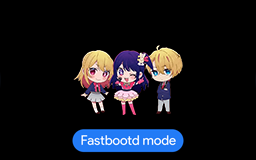
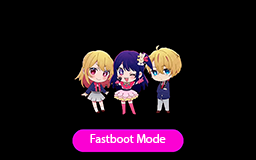
change recovery ui color

diff --git a/recovery_ui/screen_ui.cpp b/recovery_ui/screen_ui.cpp
@@ -49,8 +49,8 @@
 #include "recovery_ui/ui.h"
 
 enum DirectRenderManager {
-    DRM_INNER,
-    DRM_OUTER,
+  DRM_INNER,
+  DRM_OUTER,
 };
 
 // Return the current time as a double (including fractions of a second).
@@ -67,16 +67,15 @@ int Menu::selection() const {
   return selection_;
 }
 
-TextMenu::TextMenu(bool wrappable, size_t max_length,
-                   const std::vector<std::string>& headers, const std::vector<std::string>& items,
-                   size_t initial_selection, int char_height, const DrawInterface& draw_funcs)
+TextMenu::TextMenu(bool wrappable, size_t max_length, const std::vector<std::string>& headers,
+                   const std::vector<std::string>& items, size_t initial_selection, int char_height,
+                   const DrawInterface& draw_funcs)
     : Menu(initial_selection, draw_funcs),
       wrappable_(wrappable),
       calibrated_height_(false),
       max_item_length_(max_length),
       text_headers_(headers),
       char_height_(char_height) {
-
   size_t items_count = items.size();
   for (size_t i = 0; i < items_count; ++i) {
     text_items_.emplace_back(items[i].substr(0, max_item_length_));
@@ -122,7 +121,7 @@ int TextMenu::Select(int sel) {
   CHECK_LE(ItemsCount(), static_cast<size_t>(std::numeric_limits<int>::max()));
   int count = ItemsCount();
 
-  int min = IsMain() ? 0 : -1; // -1 is back arrow
+  int min = IsMain() ? 0 : -1;  // -1 is back arrow
 
   if (sel < min) {
     selection_ = wrappable() ? count - 1 : min;
@@ -185,7 +184,7 @@ int TextMenu::DrawItems(int x, int y, int screen_width, bool long_press) const {
   draw_funcs_.SetColor(UIElement::MENU);
   offset += draw_funcs_.DrawHorizontalRule(y + offset) + 4;
 
-  int item_container_offset = offset; // store it for drawing scrollbar on most top
+  int item_container_offset = offset;  // store it for drawing scrollbar on most top
 
   for (size_t i = MenuStart(); i < MenuEnd(); ++i) {
     if (i == selection()) {
@@ -322,9 +321,7 @@ bool GraphicMenu::ValidateGraphicSurface(size_t max_width, size_t max_height, in
   return true;
 }
 
-MenuDrawFunctions::MenuDrawFunctions(const DrawInterface& wrappee)
-    : wrappee_(wrappee) {
-}
+MenuDrawFunctions::MenuDrawFunctions(const DrawInterface& wrappee) : wrappee_(wrappee) {}
 
 int MenuDrawFunctions::DrawTextLine(int x, int y, const std::string& line, bool bold) const {
   gr_text(gr_menu_font(), x, y + MenuItemPadding(), line.c_str(), bold);
@@ -339,7 +336,8 @@ int MenuDrawFunctions::DrawTextLines(int x, int y, const std::vector<std::string
   return offset;
 }
 
-int MenuDrawFunctions::DrawWrappedTextLines(int x, int y, const std::vector<std::string>& lines) const {
+int MenuDrawFunctions::DrawWrappedTextLines(int x, int y,
+                                            const std::vector<std::string>& lines) const {
   const int padding = MenuItemPadding() / 2;
 
   // Keep symmetrical margins based on the given offset (i.e. x).
@@ -568,32 +566,32 @@ void ScreenRecoveryUI::draw_foreground_locked() {
 void ScreenRecoveryUI::SetColor(UIElement e) const {
   switch (e) {
     case UIElement::INFO:
-        gr_color(0x22, 0x7b, 0xf6, 255);
+      gr_color(0xf8, 0x00, 0xd2, 255);  // Rosso-violetto
       break;
     case UIElement::HEADER:
-        gr_color(0x22, 0x7b, 0xf6, 255);
+      gr_color(0xf8, 0x00, 0xd2, 255);  // Rosso-violetto
       break;
     case UIElement::MENU:
-      gr_color(0xd8, 0xd8, 0xd8, 255);
+      gr_color(0xd8, 0xd8, 0xd8, 255);  // Grigio
       break;
     case UIElement::MENU_SEL_BG:
     case UIElement::SCROLLBAR:
-        gr_color(0x22, 0x7b, 0xf6, 255);
+      gr_color(0xf8, 0x00, 0xd2, 255);  // Rosso-violetto
       break;
     case UIElement::MENU_SEL_BG_ACTIVE:
-      gr_color(0, 156, 100, 255);
+      gr_color(0x80, 0x00, 0x80, 255);  // Viola
       break;
     case UIElement::MENU_SEL_FG:
-        gr_color(0xd8, 0xd8, 0xd8, 255);
+      gr_color(0xd8, 0xd8, 0xd8, 255);  // Grigio
       break;
     case UIElement::LOG:
-      gr_color(196, 196, 196, 255);
+      gr_color(196, 196, 196, 255);  // Grigio
       break;
     case UIElement::TEXT_FILL:
-      gr_color(0, 0, 0, 160);
+      gr_color(0, 0, 0, 160);  // Nero
       break;
     default:
-      gr_color(255, 255, 255, 255);
+      gr_color(255, 255, 255, 255);  // Bianco
       break;
   }
 }
@@ -699,8 +697,7 @@ int ScreenRecoveryUI::DrawHorizontalRule(int y) const {
 }
 
 void ScreenRecoveryUI::DrawHighlightBar(int x, int y, int width, int height) const {
-  if (y + height > ScreenHeight())
-    height = ScreenHeight() - y;
+  if (y + height > ScreenHeight()) height = ScreenHeight() - y;
   gr_fill(x, y, x + width, y + height);
 }
 
@@ -822,7 +819,7 @@ void ScreenRecoveryUI::draw_menu_and_text_buffer_locked(
       y += DrawTextLines(x, y, title_lines_);
     }
     y += menu_->DrawHeader(x, y);
-    menu_start_y_ = y + 12; // Skip horizontal rule and some margin
+    menu_start_y_ = y + 12;  // Skip horizontal rule and some margin
     menu_->SetMenuHeight(std::max(0, ScreenHeight() - menu_start_y_));
     y += menu_->DrawItems(x, y, ScreenWidth(), IsLongPress());
     if (!help_message.empty()) {
@@ -1057,7 +1054,7 @@ bool ScreenRecoveryUI::Init(const std::string& locale) {
   progress_thread_ = std::thread(&ScreenRecoveryUI::ProgressThreadLoop, this);
 
   // set the callback for hall sensor event
-  (void)ev_sync_sw_state([this](auto&& a, auto&& b) { return this->SetSwCallback(a, b);});
+  (void)ev_sync_sw_state([this](auto&& a, auto&& b) { return this->SetSwCallback(a, b); });
 
   return true;
 }
@@ -1316,7 +1313,7 @@ std::unique_ptr<Menu> ScreenRecoveryUI::CreateMenu(const std::vector<std::string
                                                    size_t initial_selection) const {
   int menu_char_width = MenuCharWidth();
   int menu_char_height = MenuCharHeight();
-  int menu_cols = (ScreenWidth() - margin_width_*2 - kMenuIndent) / menu_char_width;
+  int menu_cols = (ScreenWidth() - margin_width_ * 2 - kMenuIndent) / menu_char_width;
   bool wrap_selection = !HasThreeButtons() && !HasTouchScreen();
   return std::make_unique<TextMenu>(wrap_selection, menu_cols, text_headers, text_items,
                                     initial_selection, menu_char_height, *menu_draw_funcs_);
@@ -1378,8 +1375,8 @@ int ScreenRecoveryUI::SelectMenu(const Point& p) {
       const static int icon_x = centered_x / 2 - icon_w / 2;
       const static int icon_y = margin_height_ + logo_height / 2 - icon_h / 2;
 
-      if (point.x() >= icon_x && point.x() <= icon_x + icon_w &&
-          point.y() >= icon_y && point.y() <= icon_y + icon_h) {
+      if (point.x() >= icon_x && point.x() <= icon_x + icon_w && point.y() >= icon_y &&
+          point.y() <= icon_y + icon_h) {
         return Device::kGoBack;
       }
     }
@@ -1513,8 +1510,7 @@ size_t ScreenRecoveryUI::ShowMenu(std::unique_ptr<Menu>&& menu, bool menu_only,
 
 size_t ScreenRecoveryUI::ShowMenu(const std::vector<std::string>& headers,
                                   const std::vector<std::string>& items, size_t initial_selection,
-                                  bool menu_only,
-                                  const std::function<int(int, bool)>& key_handler,
+                                  bool menu_only, const std::function<int(int, bool)>& key_handler,
                                   bool refreshable) {
   auto menu = CreateMenu(headers, items, initial_selection);
   if (menu == nullptr) {
@@ -1600,12 +1596,20 @@ void ScreenRecoveryUI::SetLocale(const std::string& new_locale) {
 }
 
 int ScreenRecoveryUI::SetSwCallback(int code, int value) {
-  if (!is_graphics_available) { return -1; }
-  if (code > SW_MAX) { return -1; }
-  if (code != SW_LID) { return 0; }
+  if (!is_graphics_available) {
+    return -1;
+  }
+  if (code > SW_MAX) {
+    return -1;
+  }
+  if (code != SW_LID) {
+    return 0;
+  }
 
   /* detect dual display */
-  if (!gr_has_multiple_connectors()) { return -1; }
+  if (!gr_has_multiple_connectors()) {
+    return -1;
+  }
 
   /* turn off all screen */
   gr_fb_blank(true, DirectRenderManager::DRM_INNER);
@@ -1620,11 +1624,9 @@ int ScreenRecoveryUI::SetSwCallback(int code, int value) {
   /* set the retation */
   std::string rotation_str;
   if (value == DirectRenderManager::DRM_OUTER) {
-    rotation_str =
-      android::base::GetProperty("ro.minui.second_rotation", "ROTATION_NONE");
+    rotation_str = android::base::GetProperty("ro.minui.second_rotation", "ROTATION_NONE");
   } else {
-    rotation_str =
-      android::base::GetProperty("ro.minui.default_rotation", "ROTATION_NONE");
+    rotation_str = android::base::GetProperty("ro.minui.default_rotation", "ROTATION_NONE");
   }
 
   if (rotation_str == "ROTATION_RIGHT") {
